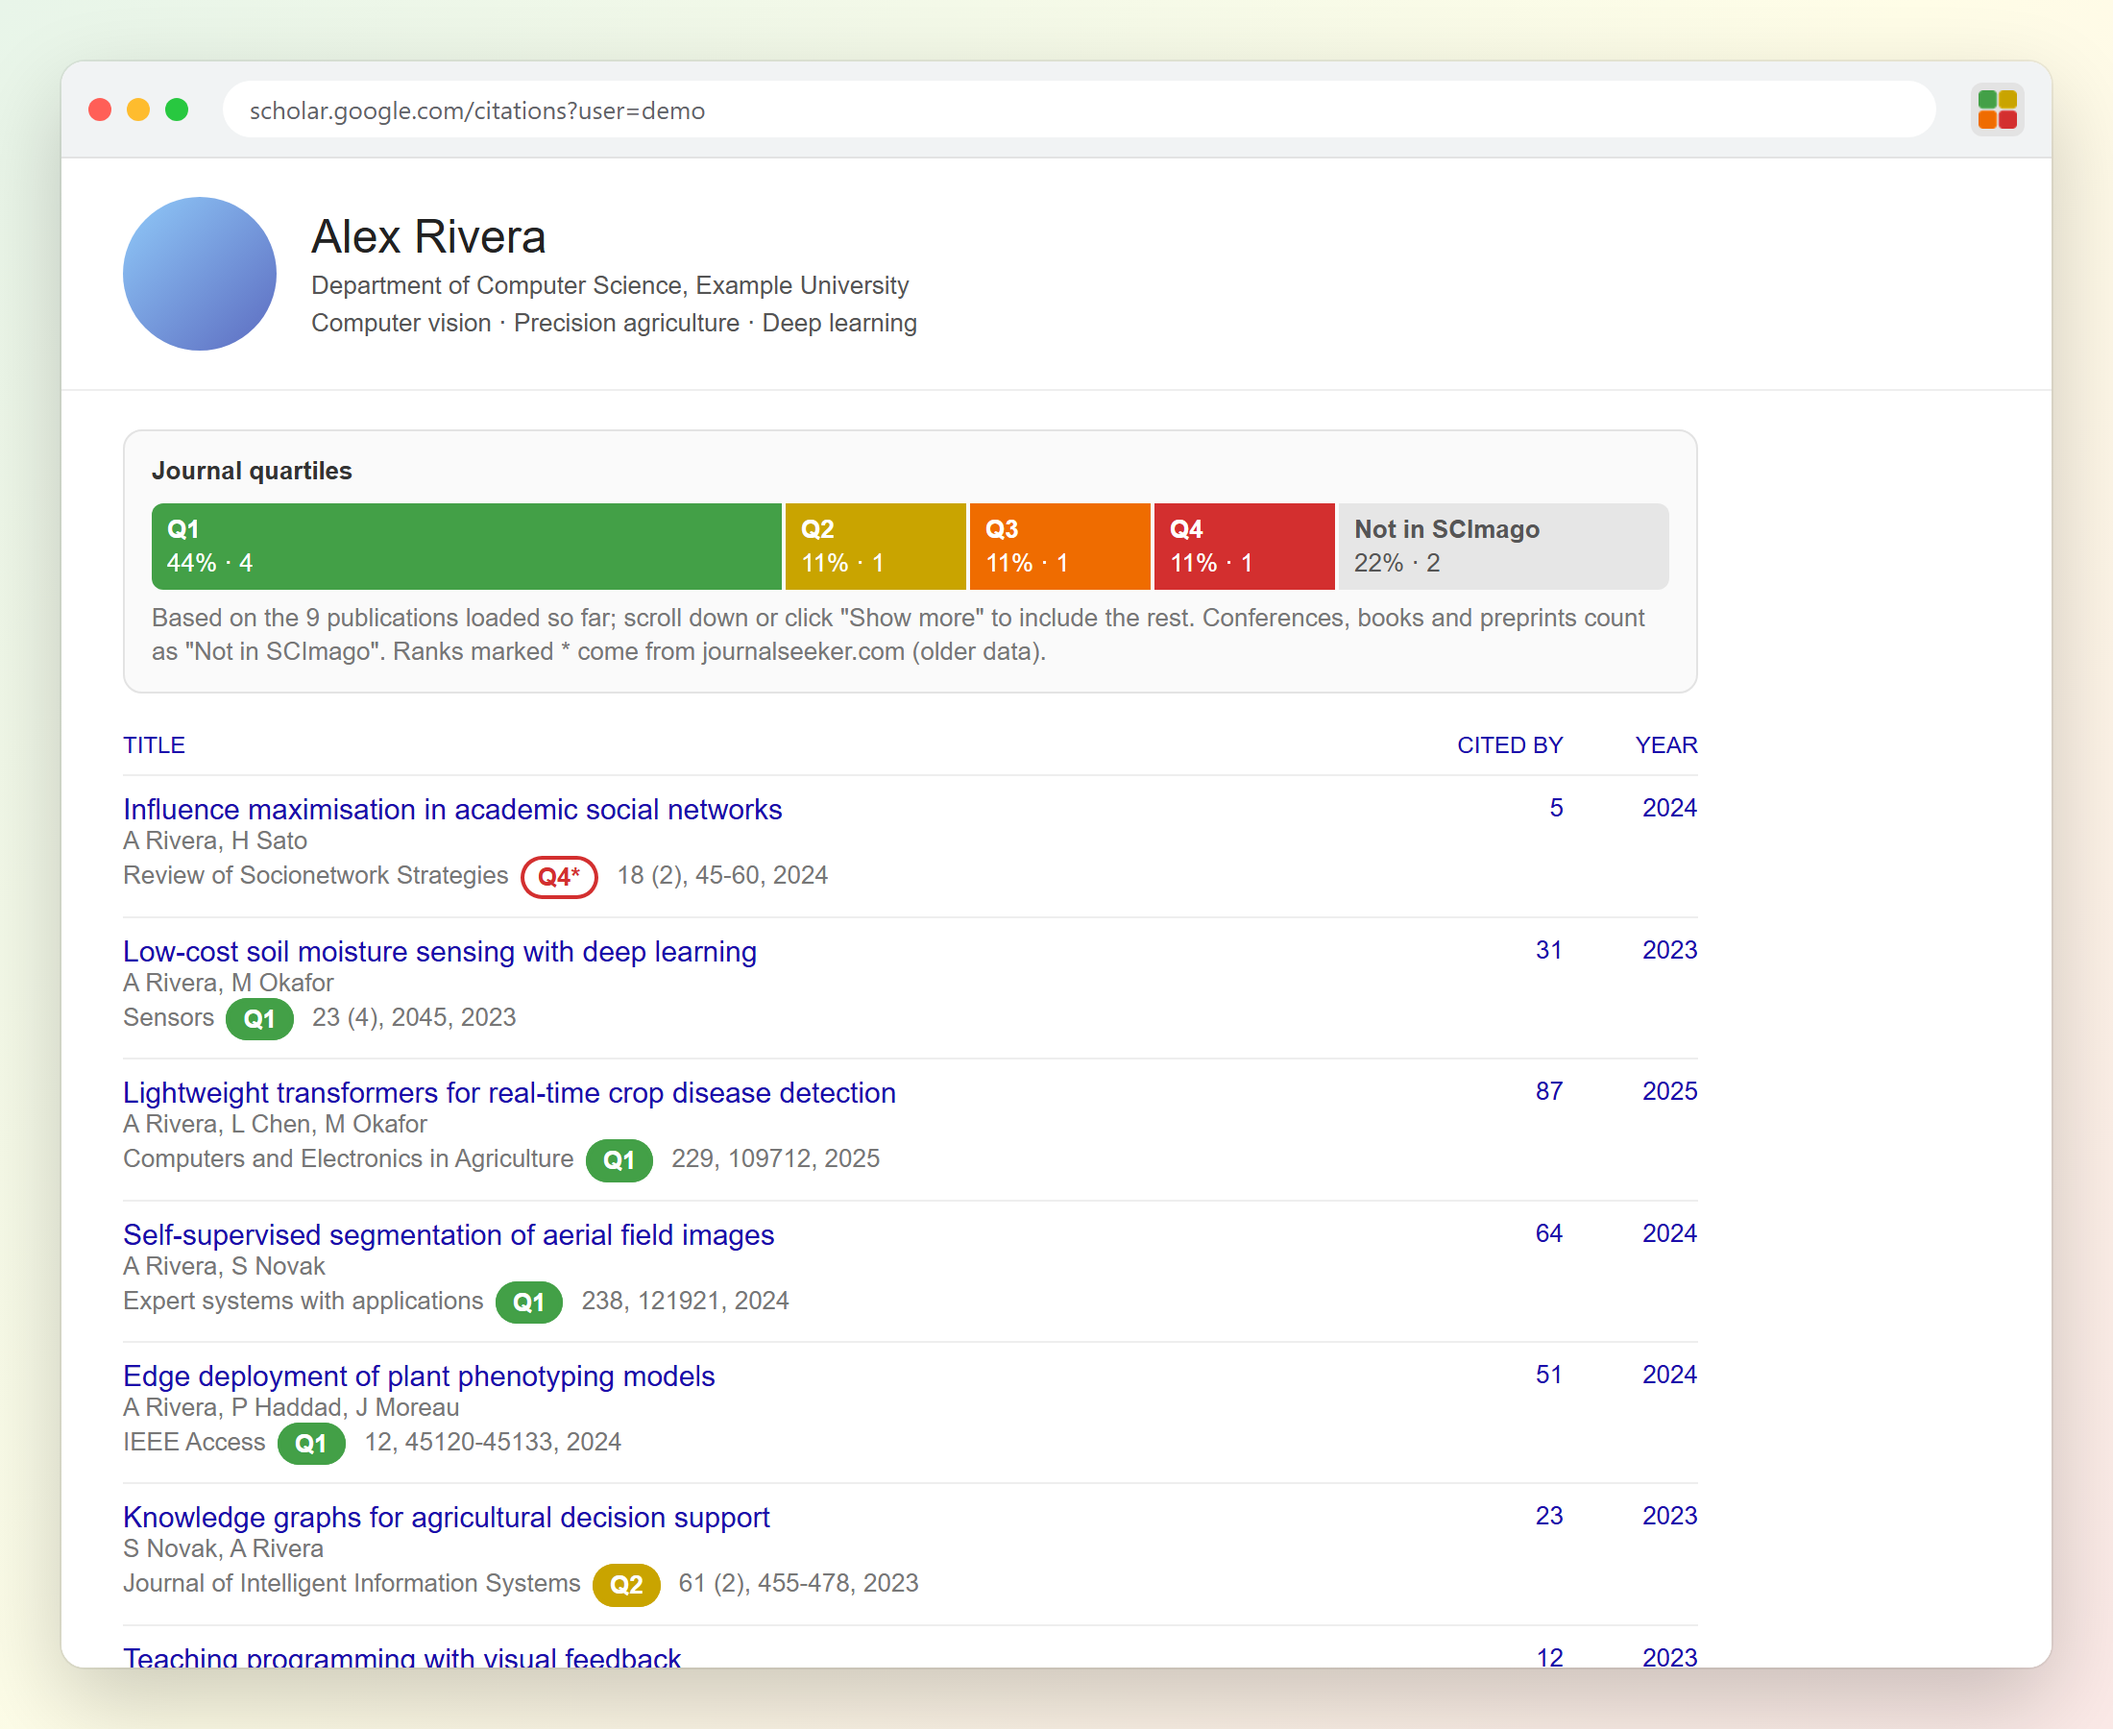
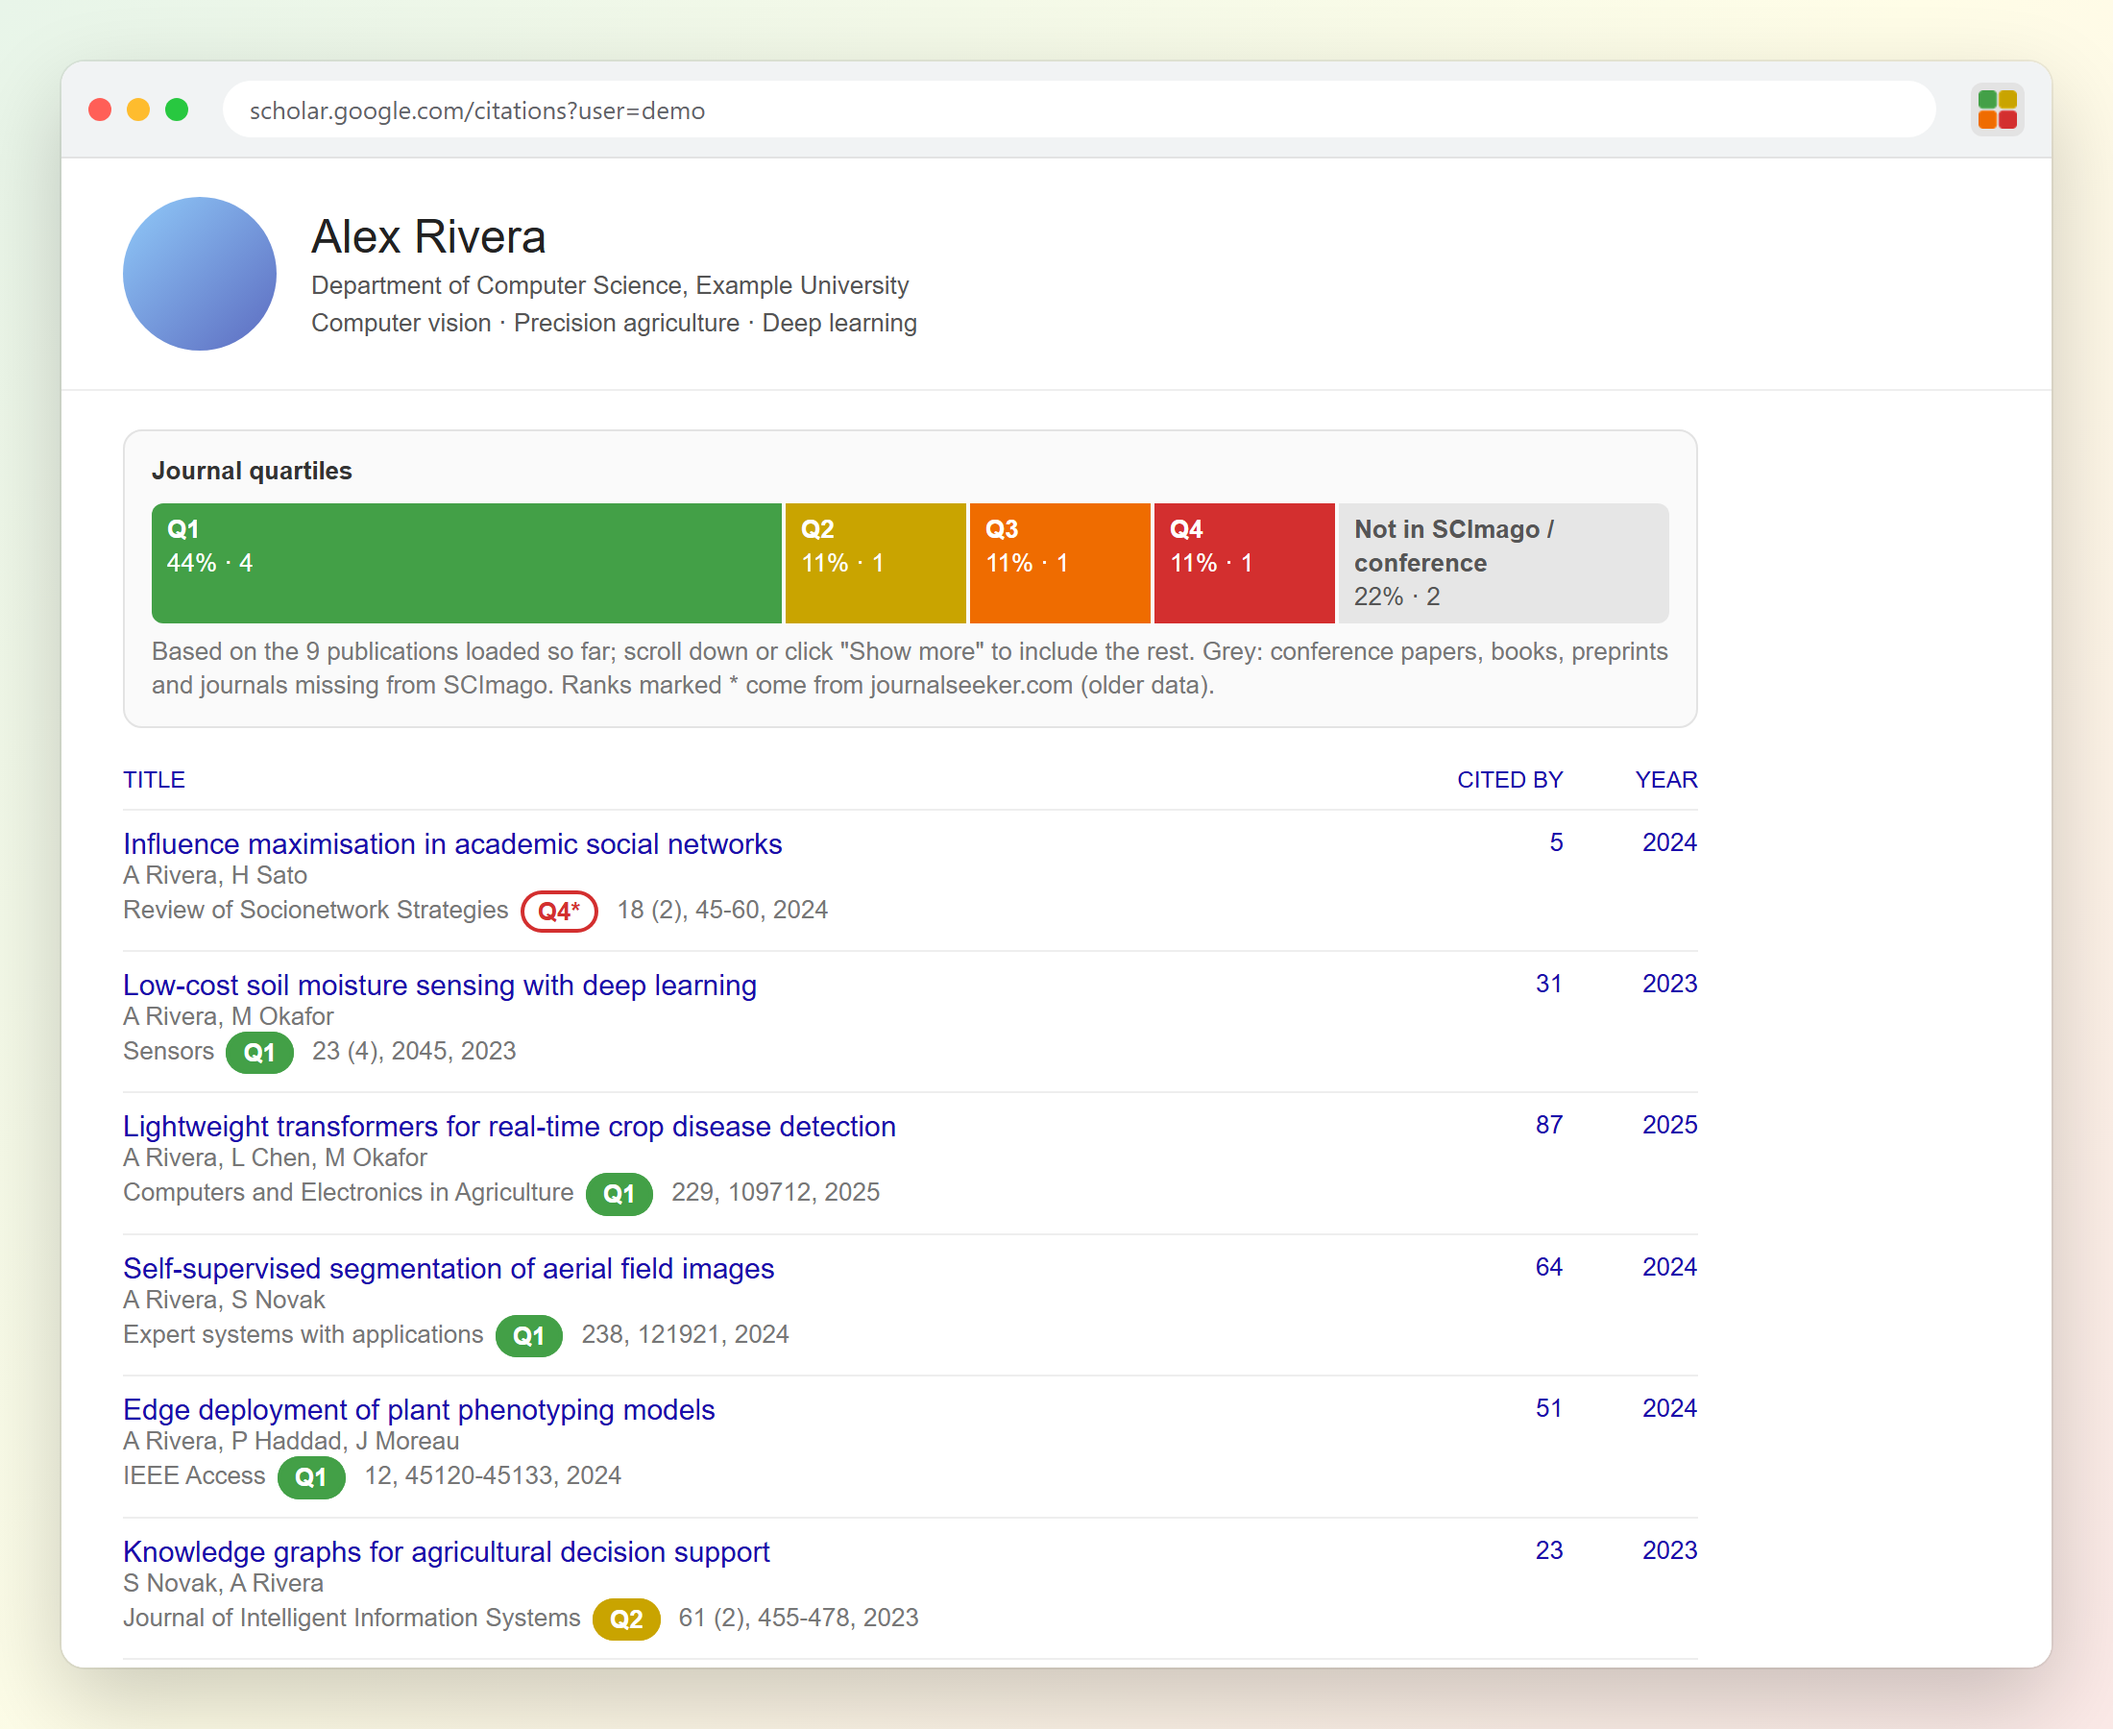
Grey block reads "Not in SCImago / conference" in the profile bar and PDF viewer

diff --git a/content.js b/content.js
@@ -183,10 +183,10 @@ function summary(items = profileItems()) {
   box.innerHTML = '<b>Journal quartiles</b><div style="display:flex;gap:2px;margin:8px 0 6px;border-radius:6px;overflow:hidden">' +
     ORDER.filter(q => count[q]).map(q => `<div style="flex:${count[q]};min-width:64px;padding:5px 8px;` +
       `background:${q === 'none' ? '#e6e6e6' : COLORS[q]};color:${q === 'none' ? '#555' : '#fff'}">` +
-      `<b>${q === 'NR' ? 'Not ranked' : q === 'none' ? 'Not in SCImago' : q}</b><br>` +
+      `<b>${q === 'NR' ? 'Not ranked' : q === 'none' ? 'Not in SCImago / conference' : q}</b><br>` +
       `${Math.round(100 * count[q] / seen.size)}% · ${count[q]}</div>`).join('') +
     `</div><span style="color:#777">Based on the ${seen.size} publications loaded so far; scroll down or click ` +
-    '"Show more" to include the rest. Conferences, books and preprints count as "Not in SCImago".' +
+    '"Show more" to include the rest. Grey: conference papers, books, preprints and journals missing from SCImago.' +
     (starred ? ' Ranks marked * come from journalseeker.com (older data).' : '') + '</span>';
   if (old) return old.replaceWith(box);
   // Right before the first publication (Scholar: before its table), never into the page layout around the list.

diff --git a/refs.js b/refs.js
@@ -138,7 +138,7 @@ async function run() {
   $('msg').textContent = `${refs.length} references:`;
   $('sum').innerHTML = Object.entries(count)
     .map(([q, n]) => `<span style="color:${COLORS[q]}">${q === 'NR' ? 'Not ranked' : q} ${n}</span>`).join('') +
-    `<span style="color:#bbb">Not in SCImago ${refs.length - Object.values(count).reduce((a, b) => a + b)}</span>`;
+    `<span style="color:#bbb">Not in SCImago / conference ${refs.length - Object.values(count).reduce((a, b) => a + b)}</span>`;
   const head = ls[at];
   $('jump').hidden = false;
   $('jump').onclick = () => scrollTo({ top: head.box.offsetTop + head.items[0].y - 120, behavior: 'smooth' });
